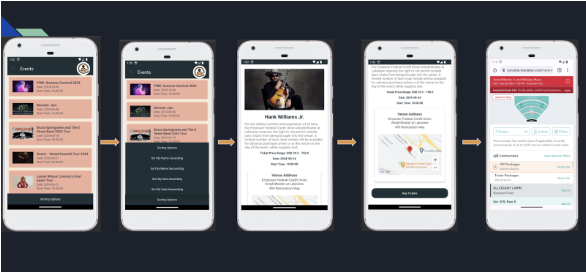
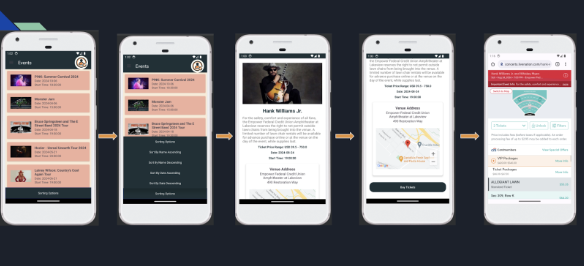
Updated Readme

diff --git a/README.md b/README.md
@@ -26,13 +26,6 @@ Using the Yelp API, this application allows students to explore Syracuse's culin
 <p>Install Android Studio: https://developer.android.com/studio</p>
 <h2>Configuration</h2>
 <p>Configure Firebase: https://firebase.google.com/</p>
-<h2>Dependencies</h2>
-<ul>
-  <li>cupertino_icons</li>
-  <li>http</li>
-  <li>image_picker</li>
-  <li>hexcolor</li>
-</ul>
 <h2>APK Download Link</h2>
 <p>https://github.com/MohitKambli/CuseConnect/tree/main/APK/CuseConnect.apk</p>
 <h2>Project Report</h2>
@@ -41,9 +34,9 @@ Using the Yelp API, this application allows students to explore Syracuse's culin
 <p>https://github.com/MohitKambli/CuseConnect/tree/main/ReportAndPresentation/CuseConnect_FinalPresentation.pdf</p>
 <h2>App Screenshots</h2>
 <div style= "float: left;width: 20%;padding: 100px;">
-  <img src="https://github.com/MohitKambli/CuseConnect/blob/main/Screenshots/S1.png" width=500 height=250>
-  <img src="https://github.com/MohitKambli/CuseConnect/blob/main/Screenshots/S2.png" width=500 height=250>
-  <img src="https://github.com/MohitKambli/CuseConnect/blob/main/Screenshots/S3.png" width=500 height=250>
-  <img src="https://github.com/MohitKambli/CuseConnect/blob/main/Screenshots/S4.png" width=500 height=250>
-  <img src="https://github.com/MohitKambli/CuseConnect/blob/main/Screenshots/S5.png" width=500 height=250>
+  <img src="https://github.com/MohitKambli/CuseConnect/blob/main/Screenshots/S1.png" width=700 height=450>
+  <img src="https://github.com/MohitKambli/CuseConnect/blob/main/Screenshots/S2.png" width=700 height=450>
+  <img src="https://github.com/MohitKambli/CuseConnect/blob/main/Screenshots/S3.png" width=700 height=450>
+  <img src="https://github.com/MohitKambli/CuseConnect/blob/main/Screenshots/S4.png" width=700 height=450>
+  <img src="https://github.com/MohitKambli/CuseConnect/blob/main/Screenshots/S5.png" width=700 height=450>
 </div>
